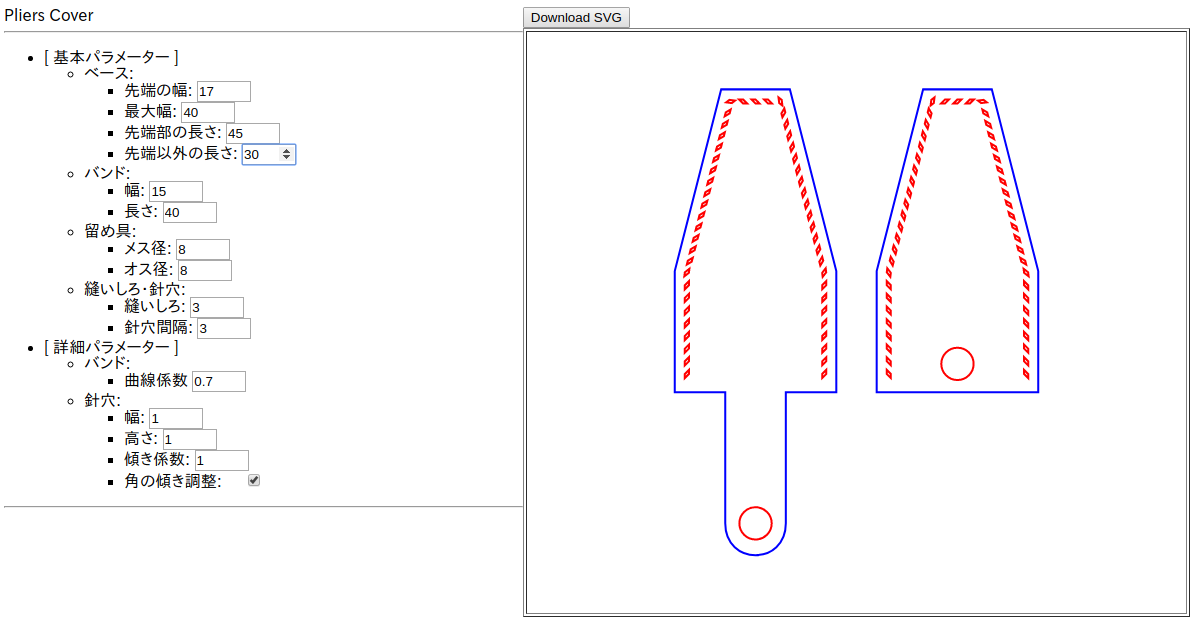
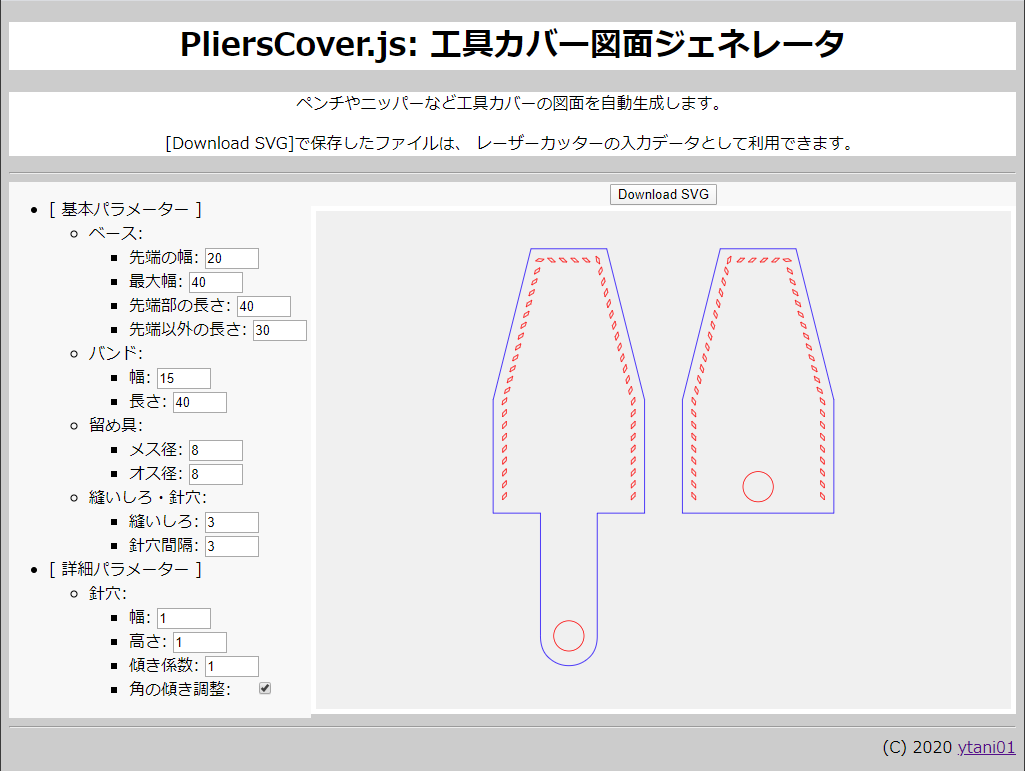
update

diff --git a/pliers_cover.html b/pliers_cover.html
@@ -3,14 +3,46 @@
   <head>
     <meta charset="utf-8">
     <meta name="viewport" content="width=device-width, initial-scale=1, maximum-scale=4">
+
+    <title>PliersCover.js</title>
+
     <script src="pliers_cover.js"></script>
-    <title>Pliers Cover</title>
+    <style>
+      h1 {
+      background-color:#FFFFFF;
+      text-align:center;
+      }
+      .abstract {
+      background-color:#FFFFFF;
+      text-align:center;
+      }
+      .area {
+      display: inline; display: inline-block; _display: inline;
+      background-color:#F8F8F8;
+      vertical-align:top;
+      }
+      .canvas {
+      background-color:#DDDDDD;
+      border-style:solid;
+      border-color:#FFFFFF;
+      border-width:5px;
+      }
+    </style>
   </head>
-  <body>
-    <div style="width:40%;float:left;">
+  <body style="background-color:#CCCCCC;">
+    <h1>PliersCover.js: 工具カバー図面ジェネレータ</h1>
+    <div class="abstract">
+      <p>
+	ペンチやニッパーなど工具カバーの図面を自動生成します。
+      </p>
+      <p>
+	[Download SVG]で保存したファイルは、
+	レーザーカッターの入力データとして利用できます。
+      </p>
+    </div>
+    <hr />
+    <div class="area" id="area_param" style="width:30%;">
       <form>
-	Pliers Cover
-	<hr />
 	<ul>
 	  <li>[ 基本パラメーター ]</li>
 	  <ul>
@@ -73,6 +105,7 @@
 
 	  <li>[ 詳細パラメーター ]</li>
 	  <ul>
+	    <div hidden>
 	    <li>バンド:</li>
 	    <ul>
 	      <li>曲線係数
@@ -80,6 +113,7 @@
 		       style="width:50px"
 		       onChange="gen_svg('canvas', 'download_link')"></li>
 	    </ul>
+	    </div>
 	    
 	    <li>針穴:</li>
 	    <ul>
@@ -102,20 +136,14 @@
 	    </ul>
 	  </ul>
 	</ul>
-	<hr />
-	<!-- 不要
-	<input id="btn1" type="button" value="Create SVG"
-	       onClick="gen_svg('canvas', 'download_link')">
-	-->
       </form>
-    </div><div style="width:60%;float:right;">
-	<a id="download_link" href="#" download="pliers_cover.svg">
+    </div><div class="area" style="width:70%;text-align:center;">
+      <a id="download_link" href="#" download="pliers_cover.svg">
 	  <input id="btn2" type="button" value="Download SVG"></a>
-	<table border="1">
-	  <tbody>
-	    <tr><td><div id="canvas"></div></td></tr>
-    	  </tbody>
-	</table>
+      <div class="canvas" id="canvas" style="background-color:#F0F0F0;"></div>
     </div>
+    <hr />
+    <div style="text-align: right;">(C) 2020
+      <a href="https://ytani01.github.io/PliersCover.js/">ytani01</a>
   </body>
 </html>

diff --git a/pliers_cover.js b/pliers_cover.js
@@ -434,14 +434,26 @@ class Part2 {
 }
 
 class SvgCanvas {
+  WIDTH_RATE = 0.6
+
   constructor(id, w, h) {
     this.id = id;
 
-    console.log(`screen: ${window.innerWidth}, ${window.innerHeight}`);
-    this.svg_w = window.innerWidth * 0.5;
-    this.svg_h = window.innerHeight * 0.8;
+    this.width = window.innerWidth * this.WIDTH_RATE;
+    this.table_width = this.width * 0.88;
 
-    this.header = '<svg xmlns="http://www.w3.org/2000/svg"';
+    console.log(`screen: ${window.innerWidth}, ${window.innerHeight}`);
+    console.log(`width=${this.width}, table_width=${this.table_width}`);
+
+    /*
+    document.getElementById("area_param").style.width = `${window.innerWidth - this.width}`;
+    document.getElementById("area_canvas").style.width = `${this.width}`;
+    document.getElementById("table_canvas").setAttribute("width",
+							 `${this.table_width}`);
+    */
+						
+    this.header = `<svg width="${this.table_width}"`;
+    this.header += ' xmlns="http://www.w3.org/2000/svg"';
     this.header += ' version="1.1"';
     this.header += ` width="${w}mm" height="${h}mm"`;
     this.header += ` viewBox="0 0 ${w} ${h}">\n`;
@@ -529,5 +541,10 @@ function gen_svg(id_canvas, id_download) {
 }
 
 window.addEventListener('DOMContentLoaded', function() {
+  let svg_text = gen_svg("canvas", "download_link");
+});
+
+// タイマーを設定した方がいい。
+window.addEventListener('resize', function() {
   let svg_text = gen_svg("canvas", "download_link");
 });
